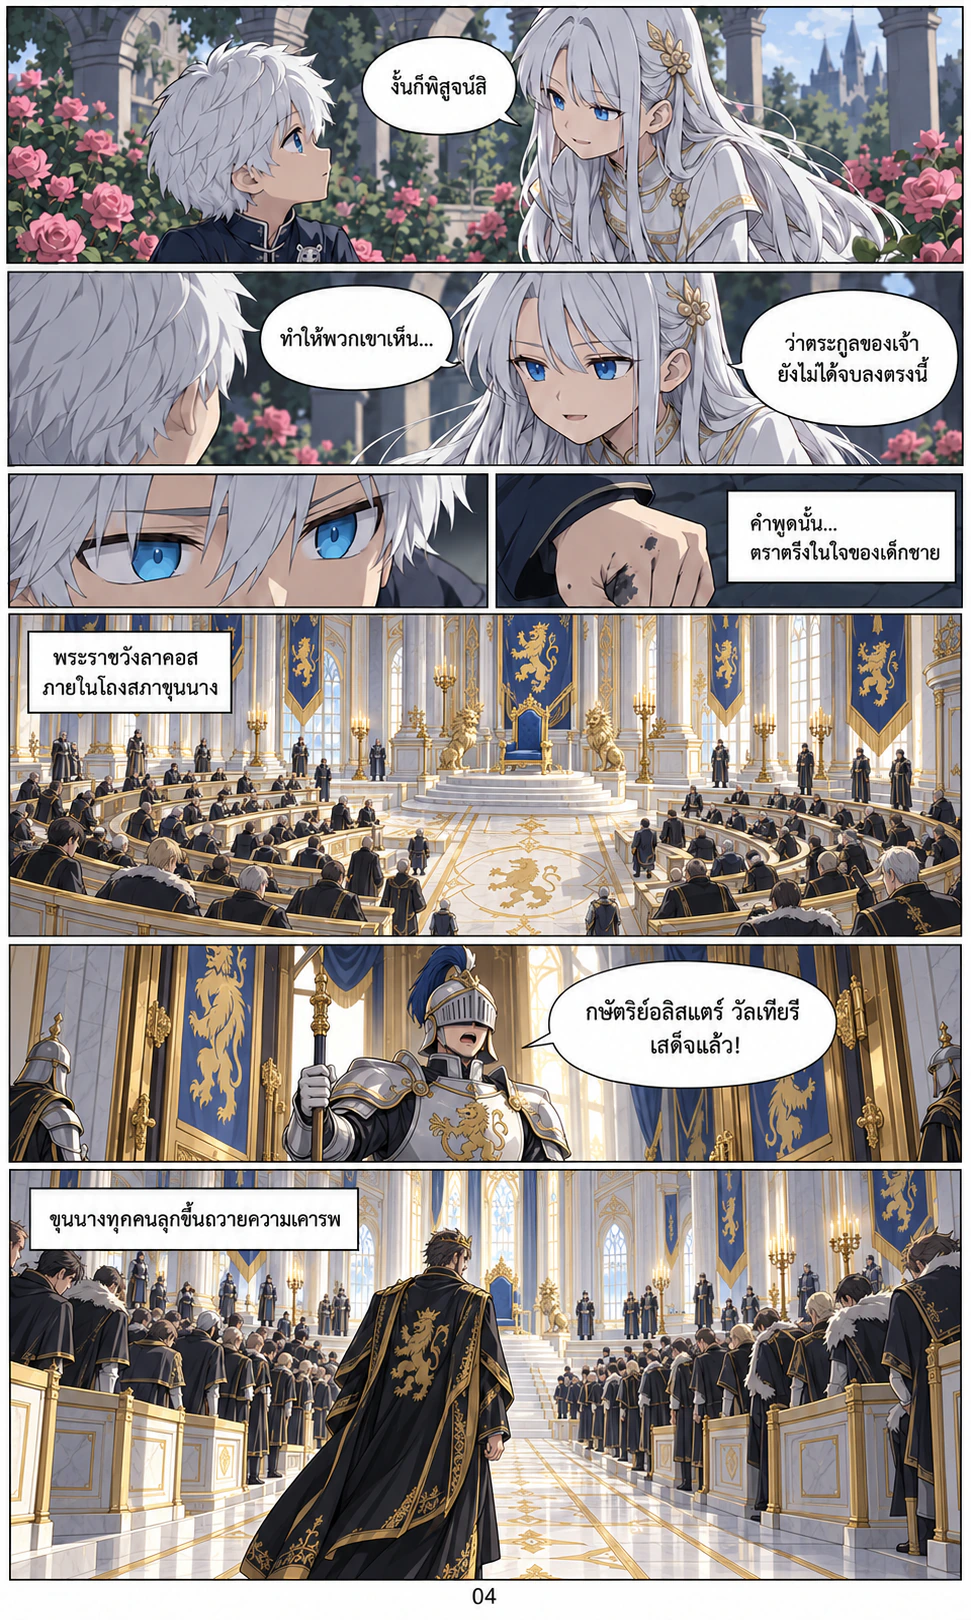
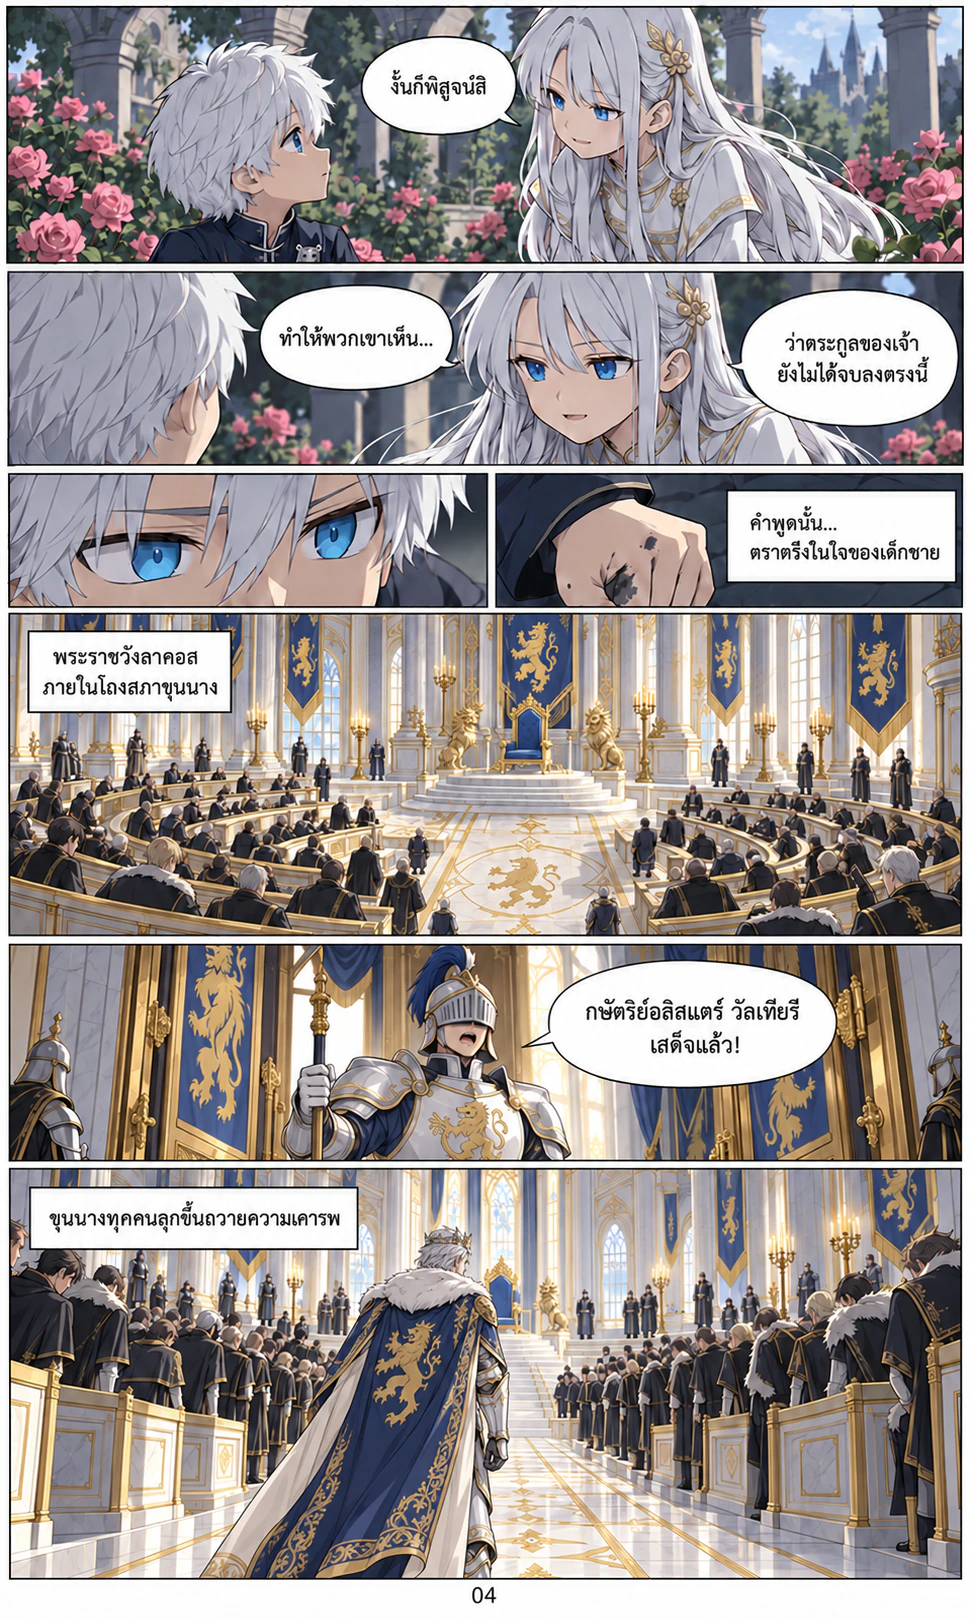
Align king design and national heraldry with family reference

diff --git a/comics.js b/comics.js
@@ -6,7 +6,7 @@ window.ASTRAEL_COMICS = {
     ],
     "pages": [
       {
-        "src": "./assets/comic/chapter-00/page-01.webp?v=d563fc687a1a",
+        "src": "./assets/comic/chapter-00/page-01.webp?v=e48844e6af31",
         "width": 971,
         "height": 1619,
         "description": "ทวีปอาเรเซียและห้าอาณาจักรสำคัญ"
@@ -30,9 +30,9 @@ window.ASTRAEL_COMICS = {
         "description": "วงแหวนเวทและขอบเขตของนักเวทย์"
       },
       {
-        "src": "./assets/comic/chapter-00/page-05.webp?v=c4745fc9413b",
+        "src": "./assets/comic/chapter-00/page-05.webp?v=0c8a3477f850",
         "width": 971,
-        "height": 1619,
+        "height": 1620,
         "description": "โลกก่อนพายุสงคราม และอัสทราเอลที่ยังไม่ถือกำเนิด"
       }
     ]
@@ -63,27 +63,27 @@ window.ASTRAEL_COMICS = {
         "description": "องค์หญิงเซราฟินาและคราบหมึกที่นิ้วของแพทริก"
       },
       {
-        "src": "./assets/comic/chapter-01/page-04.webp?v=6b73ae366104",
+        "src": "./assets/comic/chapter-01/page-04.webp?v=ffd00c74ef0c",
         "width": 971,
-        "height": 1620,
+        "height": 1619,
         "description": "กำลังใจในสวน โถงสภาสีขาว และการเสด็จของกษัตริย์"
       },
       {
-        "src": "./assets/comic/chapter-01/page-04b.webp?v=f8281923e6e2",
+        "src": "./assets/comic/chapter-01/page-04b.webp?v=759f30e1d003",
         "width": 971,
-        "height": 1620,
+        "height": 1619,
         "description": "กษัตริย์ประทับบัลลังก์และเริ่มการประชุมขุนนาง"
       },
       {
-        "src": "./assets/comic/chapter-01/page-05.webp?v=558372c75b6d",
+        "src": "./assets/comic/chapter-01/page-05.webp?v=3b4a7b42d342",
         "width": 971,
-        "height": 1619,
+        "height": 1620,
         "description": "สวนพระราชวังยามเย็นและการมาถึงของกษัตริย์"
       },
       {
-        "src": "./assets/comic/chapter-01/page-06.webp?v=3533620aeacf",
+        "src": "./assets/comic/chapter-01/page-06.webp?v=79a68d91fa87",
         "width": 971,
-        "height": 1620,
+        "height": 1619,
         "description": "กษัตริย์กับทายาทพยัคฆ์ขาว"
       },
       {

diff --git a/index.html b/index.html
@@ -80,7 +80,7 @@
     </main>
 
     <script src="./chapters.js"></script>
-    <script src="./comics.js?v=comic-2"></script>
+    <script src="./comics.js?v=comic-3"></script>
     <script src="./app.js?v=comic-2"></script>
   </body>
 </html>
